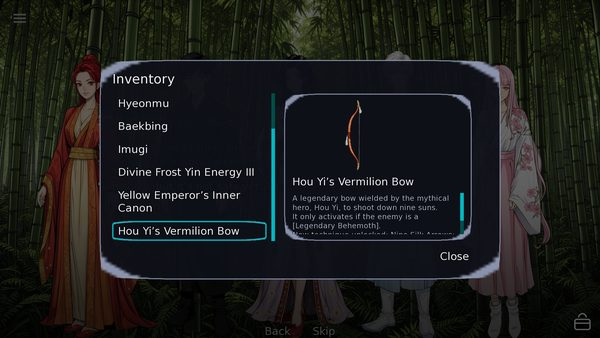
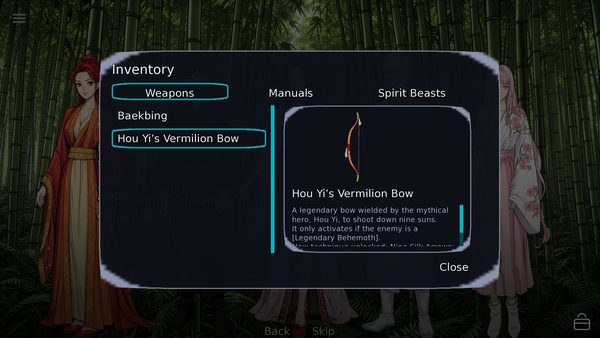
Visual novel: retaken inventory and festival-choice screenshots; inventory tabs note
The two inventory screenshots now show the new category tabs, and the
festival choice no longer carries the Skipping marker.

diff --git a/projects/visual-novel.html b/projects/visual-novel.html
@@ -374,6 +374,7 @@
               <ul>
                 <li>Reduced the narration text box to 70% height so character sprites' faces are displayed more cleanly</li>
                 <li>Added an animated opening for Act 3: Mount Hua</li>
+                <li>Added categorized tabs to the inventory</li>
               </ul>
             </details>
           </div>
@@ -874,14 +875,14 @@
                   <a href="/img/vn/klein-act3-hua-16.jpg" target="_blank" rel="noopener noreferrer">
                     <img src="/img/vn/klein-act3-hua-16-thumb.jpg" alt="Jung Seong meeting Hou Yi, in bronze armor, in the canyon" loading="lazy" width="600" height="338" />
                   </a>
-                  <a href="/img/vn/klein-act3-hua-17.jpg" target="_blank" rel="noopener noreferrer">
-                    <img src="/img/vn/klein-act3-hua-17-thumb.jpg" alt="The inventory open on Hou Yi&#x27;s Vermilion Bow" loading="lazy" width="600" height="338" />
+                  <a href="/img/vn/klein-act3-hua-17.jpg?v=2" target="_blank" rel="noopener noreferrer">
+                    <img src="/img/vn/klein-act3-hua-17-thumb.jpg?v=2" alt="The inventory's Weapons tab open on Hou Yi&#x27;s Vermilion Bow" loading="lazy" width="600" height="338" />
                   </a>
                   <a href="/img/vn/klein-act3-hua-18.jpg" target="_blank" rel="noopener noreferrer">
                     <img src="/img/vn/klein-act3-hua-18-thumb.jpg" alt="Jung Seong and Cheon Ma in a green field, talking about the bow" loading="lazy" width="600" height="338" />
                   </a>
-                  <a href="/img/vn/klein-act3-hua-19.jpg" target="_blank" rel="noopener noreferrer">
-                    <img src="/img/vn/klein-act3-hua-19-thumb.jpg" alt="A choice between staying behind to train with Namgoong Ri Hwa and taking Ouyang Hong Ryeon to the festival" loading="lazy" width="600" height="338" />
+                  <a href="/img/vn/klein-act3-hua-19.jpg?v=2" target="_blank" rel="noopener noreferrer">
+                    <img src="/img/vn/klein-act3-hua-19-thumb.jpg?v=2" alt="A choice between staying behind to train with Namgoong Ri Hwa and taking Ouyang Hong Ryeon to the festival" loading="lazy" width="600" height="338" />
                   </a>
                   <a href="/img/vn/klein-act3-hua-20.jpg" target="_blank" rel="noopener noreferrer">
                     <img src="/img/vn/klein-act3-hua-20-thumb.jpg" alt="A CG of Jung Seong offering his hand to Namgoong Ri Hwa, fallen in a courtyard" loading="lazy" width="600" height="338" />
@@ -943,8 +944,8 @@
                   <a href="/img/vn/klein-act3-hua-39.jpg" target="_blank" rel="noopener noreferrer">
                     <img src="/img/vn/klein-act3-hua-39-thumb.jpg" alt="Jung Seong with Hyeonmu, Imugi and Bonghwang in the magma cavern" loading="lazy" width="600" height="338" />
                   </a>
-                  <a href="/img/vn/klein-act3-hua-40.jpg" target="_blank" rel="noopener noreferrer">
-                    <img src="/img/vn/klein-act3-hua-40-thumb.jpg" alt="The inventory open on Bonghwang, a spirit beast to summon in combat" loading="lazy" width="600" height="338" />
+                  <a href="/img/vn/klein-act3-hua-40.jpg?v=2" target="_blank" rel="noopener noreferrer">
+                    <img src="/img/vn/klein-act3-hua-40-thumb.jpg?v=2" alt="The inventory's Spirit Beasts tab open on Bonghwang, a spirit beast to summon in combat" loading="lazy" width="600" height="338" />
                   </a>
                   <a href="/img/vn/klein-act3-hua-41.jpg" target="_blank" rel="noopener noreferrer">
                     <img src="/img/vn/klein-act3-hua-41-thumb.jpg" alt="Jung Seong, Sect Leader So Nam Jin and Lee Seong Hwa in the bamboo forest" loading="lazy" width="600" height="338" />
